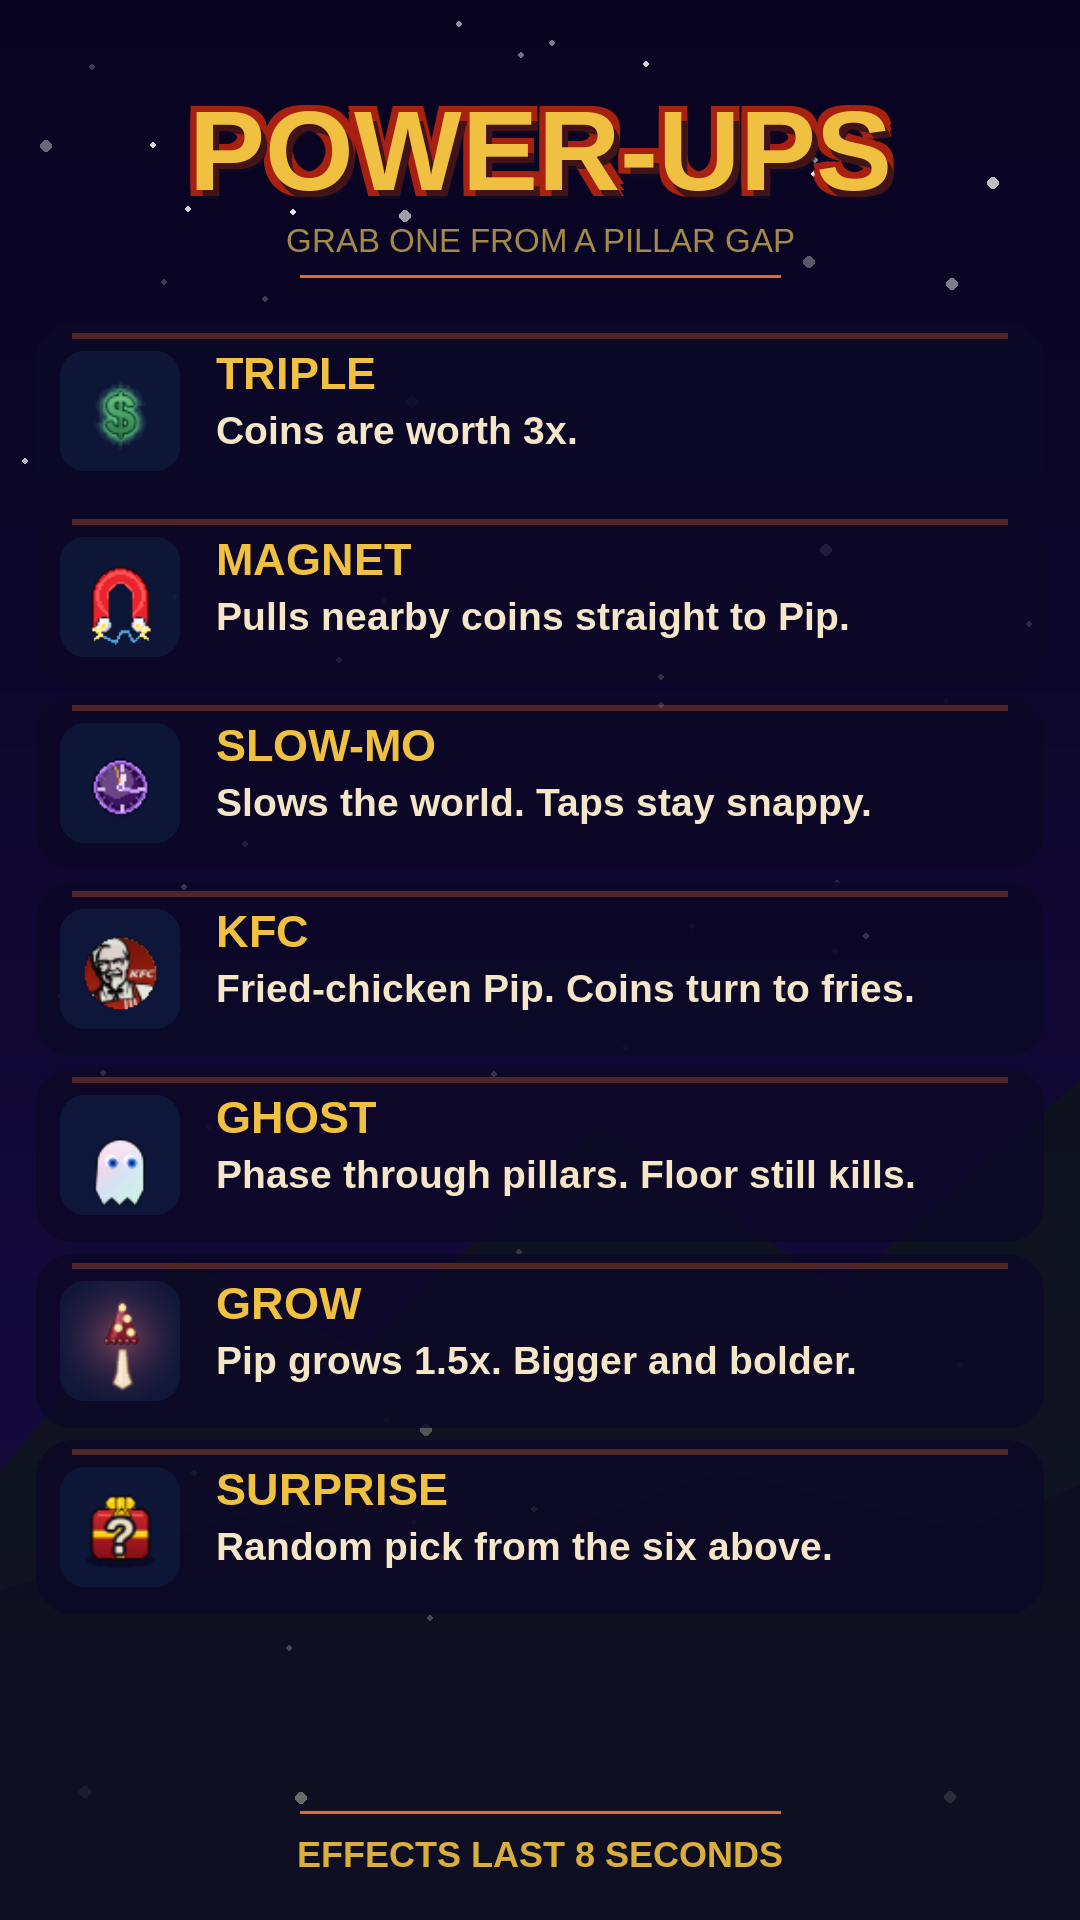
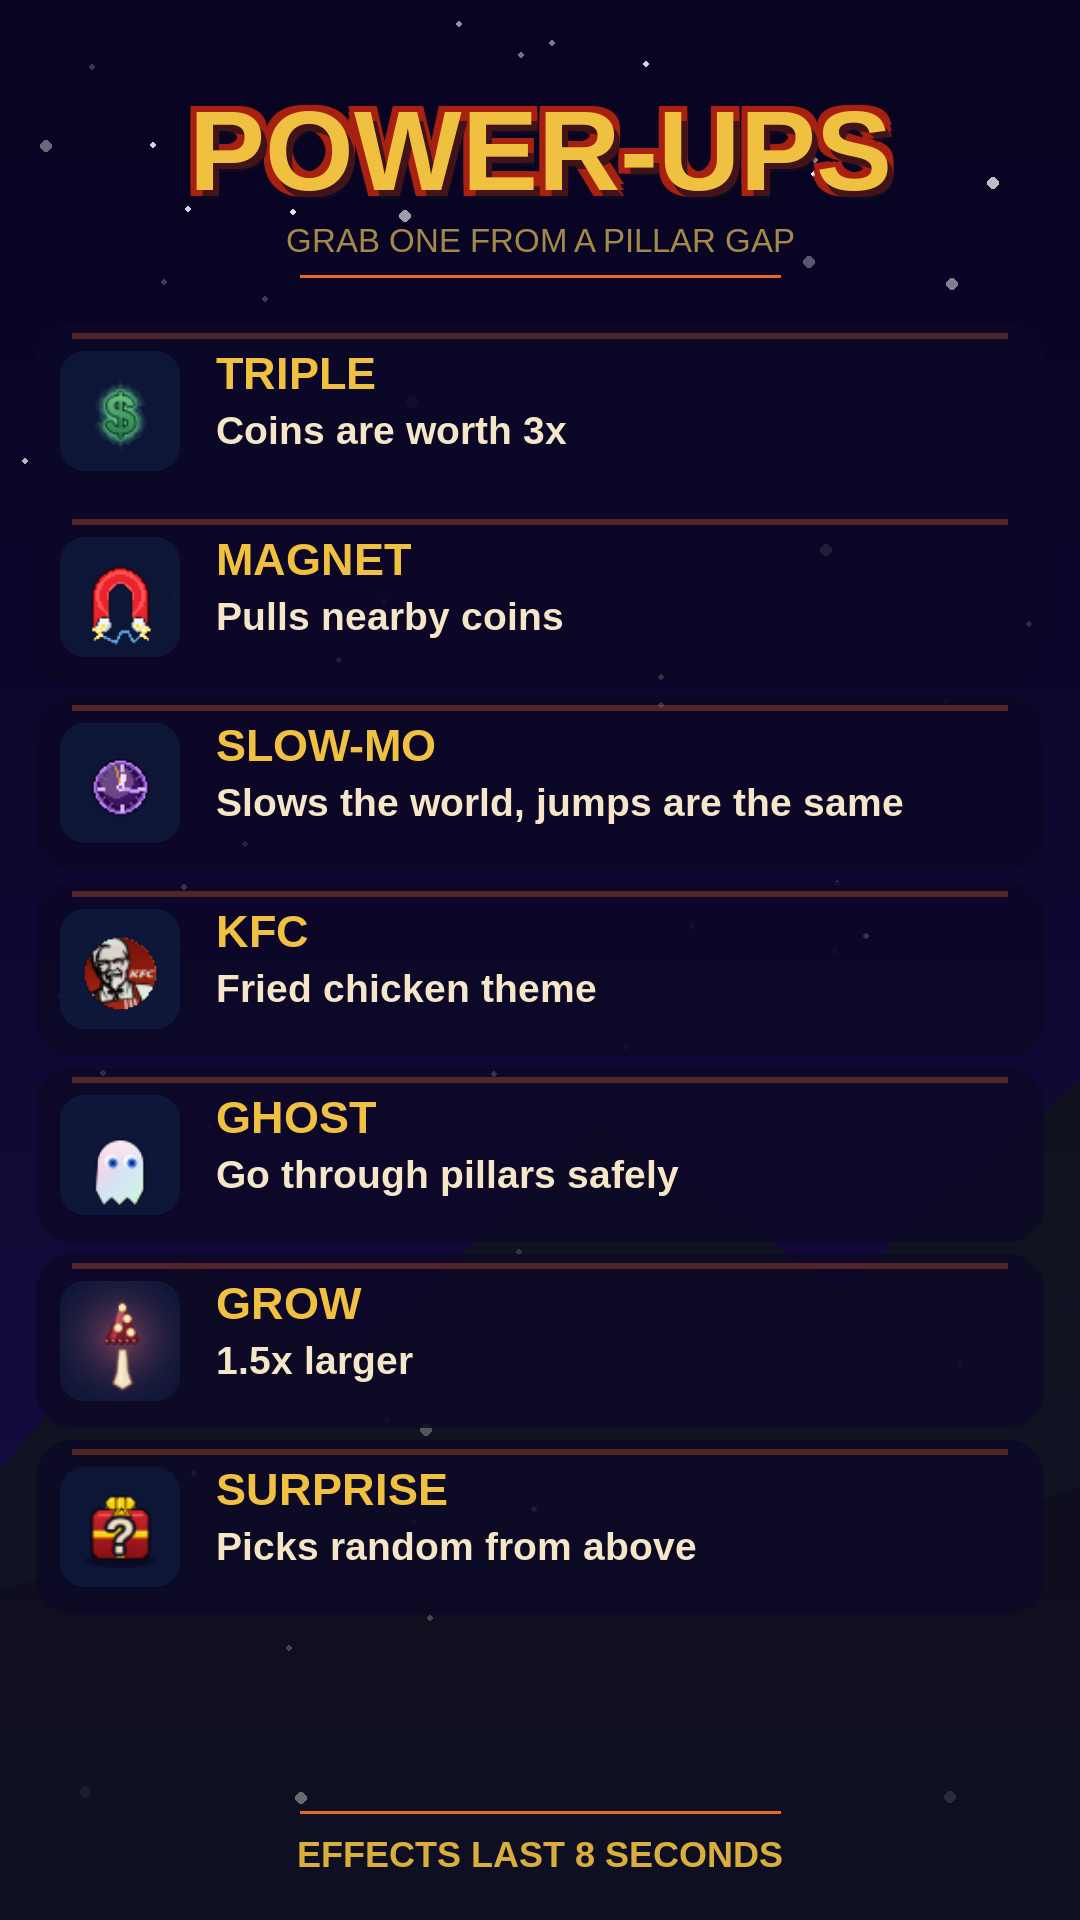
explainer: refine power-up descriptions
* Drop trailing periods from every description.
* Remove all references to "Pip".
* Tighter wording per kind:
    triple   - Coins are worth 3x
    magnet   - Pulls nearby coins
    slowmo   - Slows the world, jumps are the same
    kfc      - Fried chicken theme
    ghost    - Go through pillars safely
    grow     - 1.5x larger
    surprise - Picks random from above

diff --git a/tools/render_powerup_screen_candidates.py b/tools/render_powerup_screen_candidates.py
@@ -38,13 +38,13 @@ os.makedirs(OUT_DIR, exist_ok=True)
 
 # Duration is reported once in the footer, never per-row.
 POWERUPS = [
-    ("triple",   "TRIPLE",   "Coins are worth 3x."),
-    ("magnet",   "MAGNET",   "Pulls nearby coins straight to Pip."),
-    ("slowmo",   "SLOW-MO",  "Slows the world. Taps stay snappy."),
-    ("kfc",      "KFC",      "Fried-chicken Pip. Coins turn to fries."),
-    ("ghost",    "GHOST",    "Phase through pillars. Floor still kills."),
-    ("grow",     "GROW",     "Pip grows 1.5x. Bigger and bolder."),
-    ("surprise", "SURPRISE", "Random pick from the six above."),
+    ("triple",   "TRIPLE",   "Coins are worth 3x"),
+    ("magnet",   "MAGNET",   "Pulls nearby coins"),
+    ("slowmo",   "SLOW-MO",  "Slows the world, jumps are the same"),
+    ("kfc",      "KFC",      "Fried chicken theme"),
+    ("ghost",    "GHOST",    "Go through pillars safely"),
+    ("grow",     "GROW",     "1.5x larger"),
+    ("surprise", "SURPRISE", "Picks random from above"),
 ]
 
 SCALE = 3   # 360x640 → 1080x1920
@@ -259,7 +259,7 @@ def candidate_2():
     surf.blit(nimg, (surprise_card.x + 80 * s, surprise_card.y + 10 * s))
 
     f = _font(12 * s, True)
-    blurb = "Gift box rerolls into one of the six above."
+    blurb = POWERUPS[-1][2]
     text_left = surprise_card.x + 80 * s
     text_right = surprise_card.right - 12 * s
     for li, line in enumerate(_wrap(f, blurb, text_right - text_left)[:2]):
